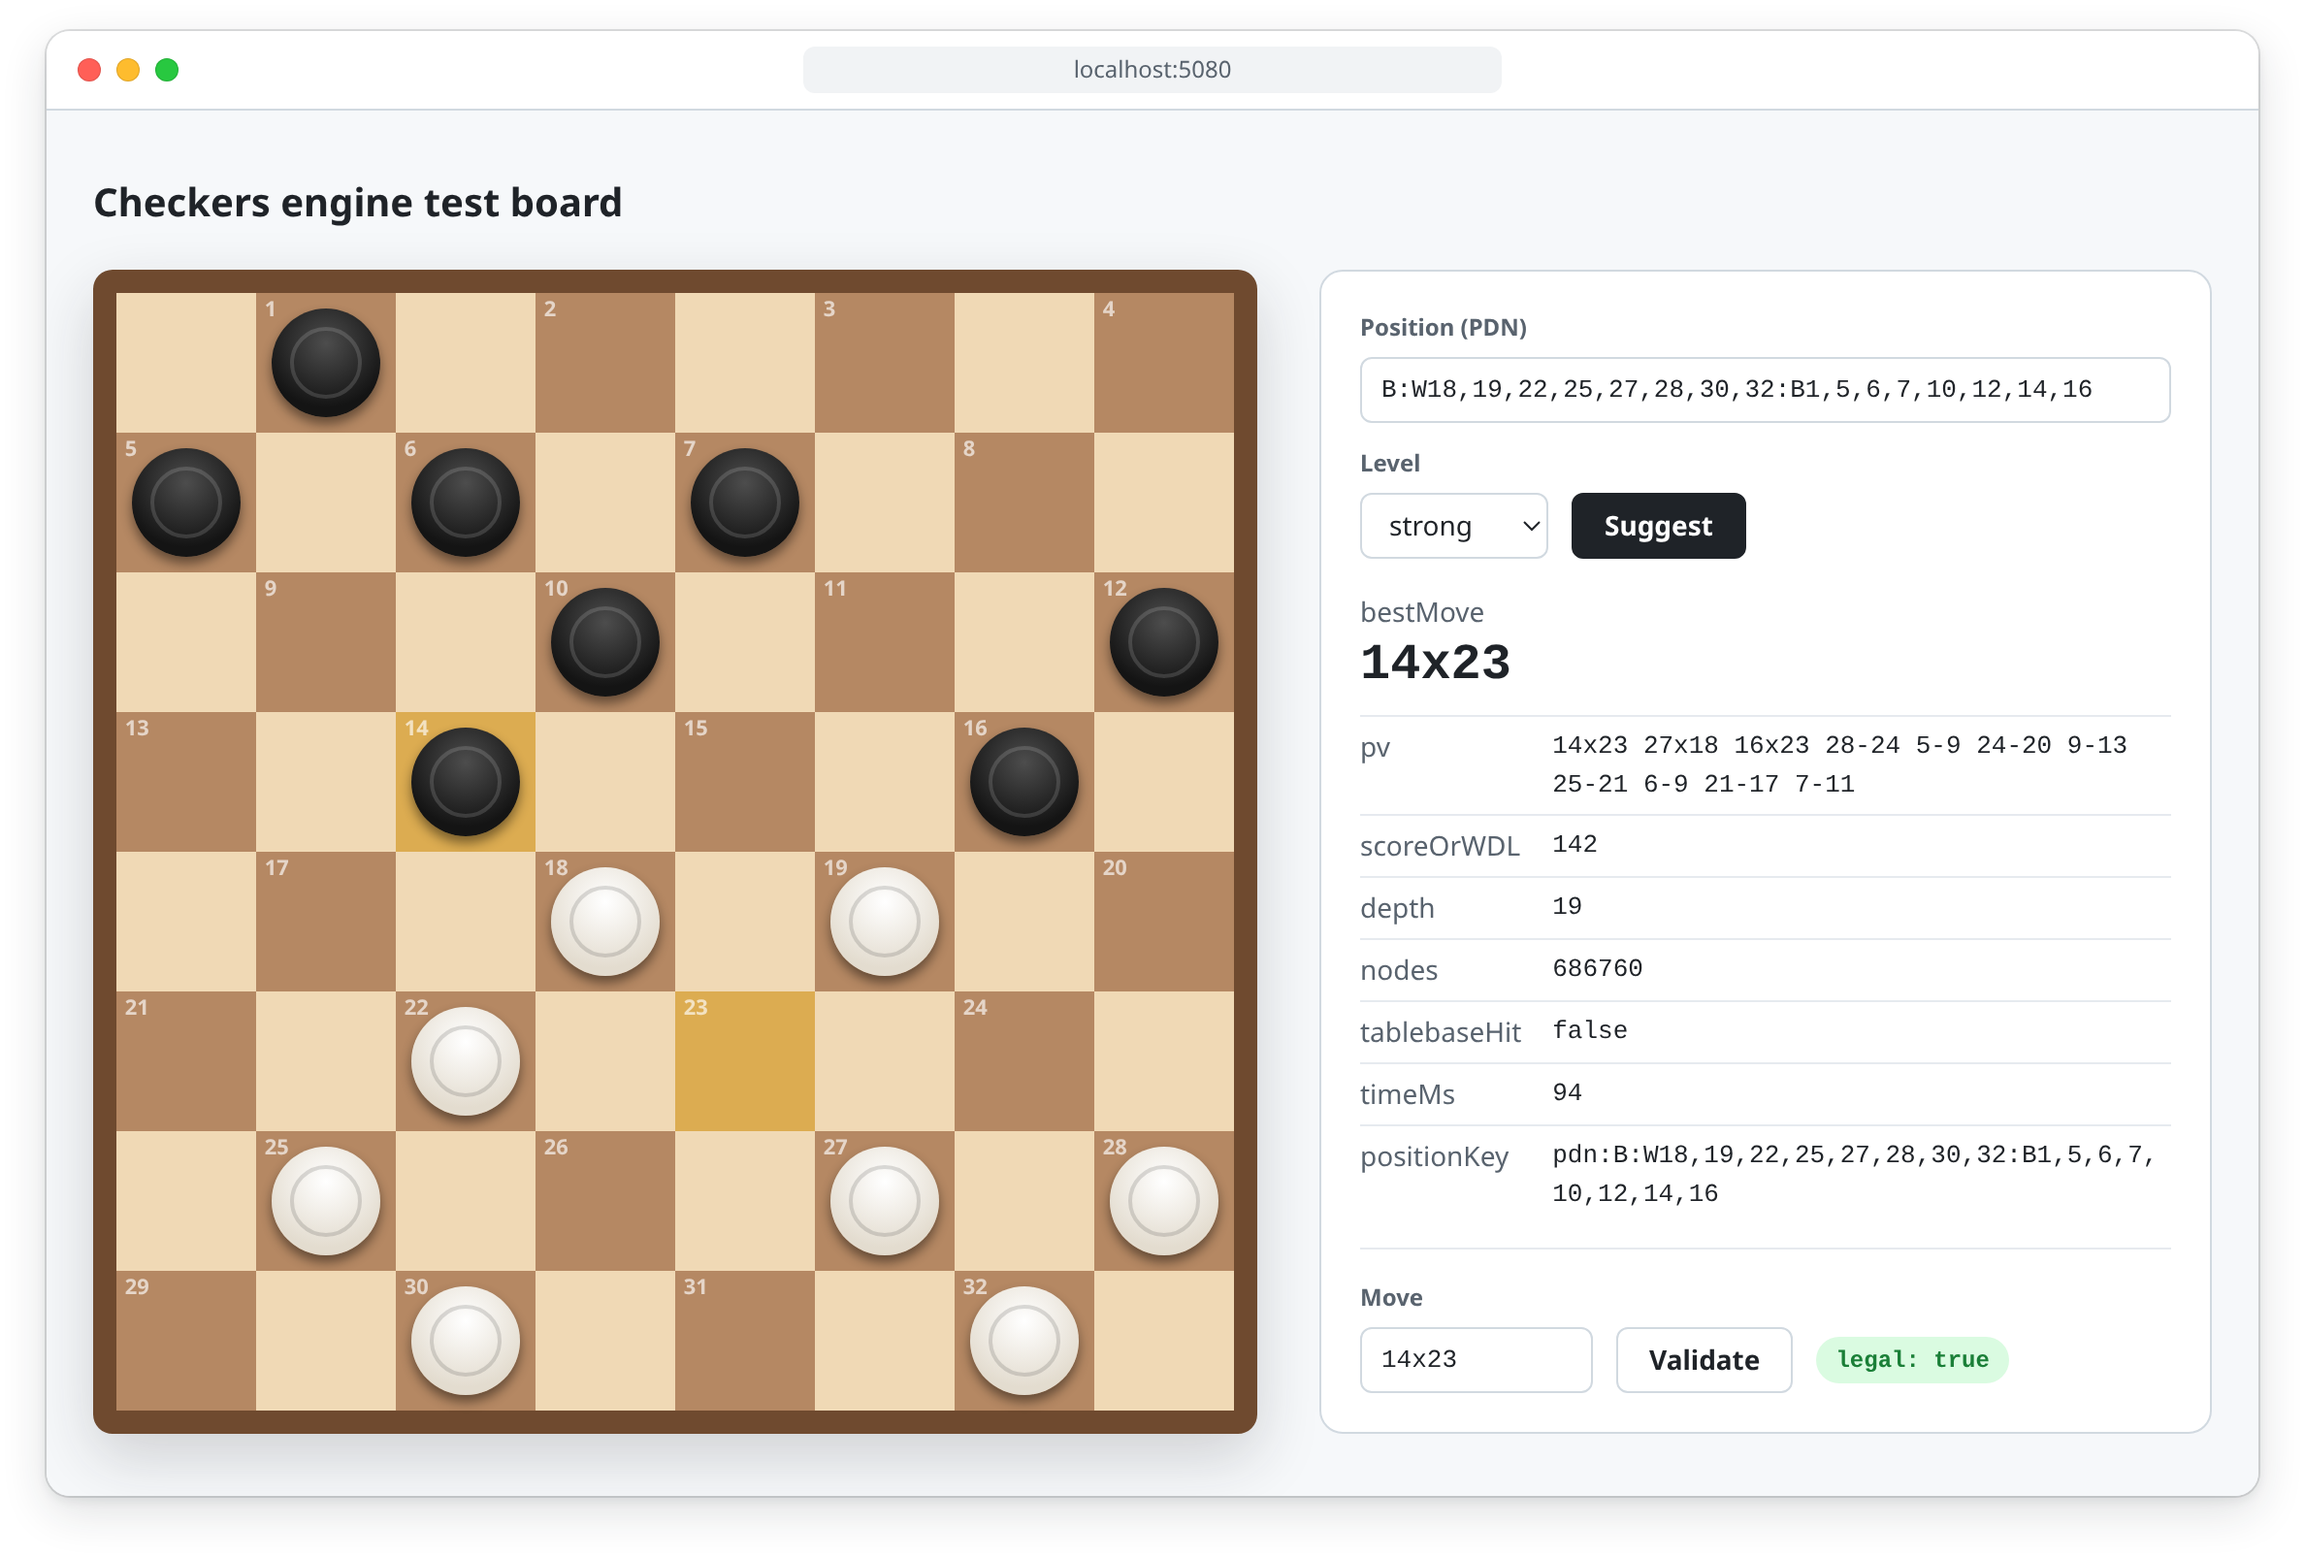
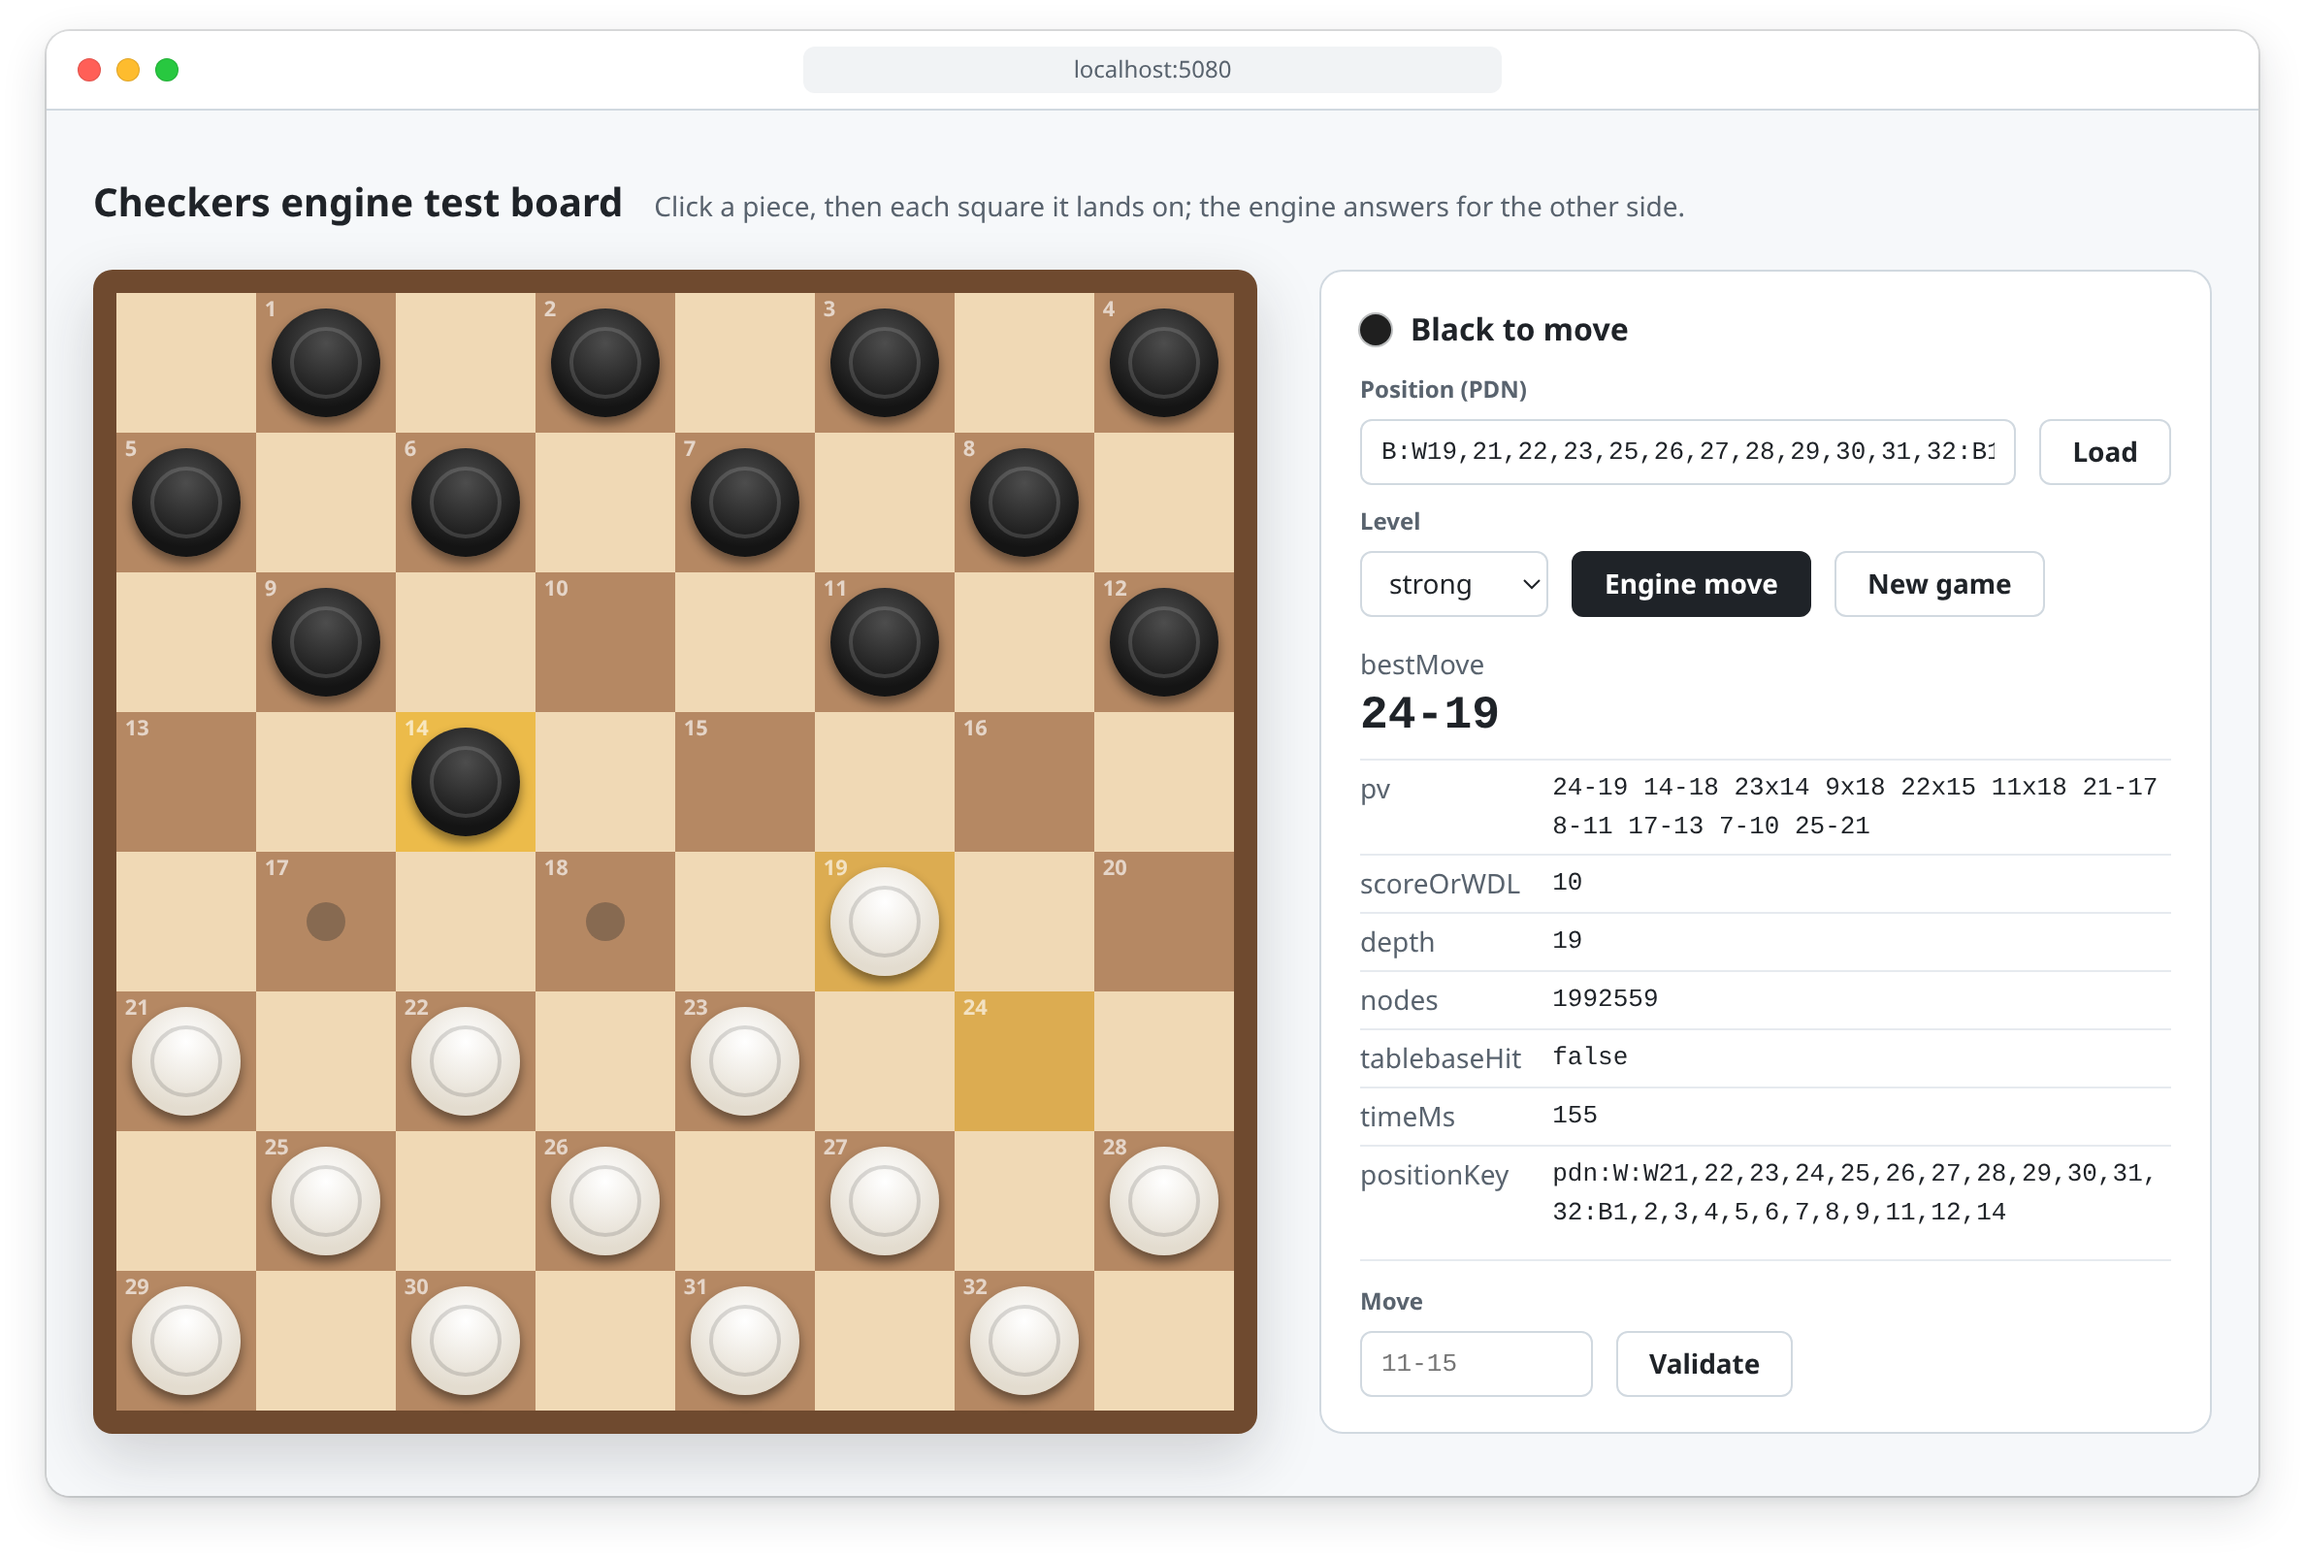
docs: describe the playable test board

diff --git a/README.md b/README.md
@@ -13,9 +13,9 @@
 
 [Quick start](#quick-start) · [API](#api) · [How it works](#how-it-works) · [Deploying to IIS](#deploying-to-iis) · [Design decisions](#design-decisions)
 
-<img src="docs/board.png" width="820" alt="Test board: the engine suggests 14x23 on the sample position, and the move validates as legal">
+<img src="docs/board.png" width="820" alt="Test board: a game against the engine, which answered 10-14 with 24-19; the selected piece on 14 shows its landing squares">
 
-<sub>Test board (<code>GET /</code>) on the specification's sample position</sub>
+<sub>Test board (<code>GET /</code>): a game against the engine</sub>
 
 </div>
 
@@ -63,7 +63,7 @@ export Engine__Databases="Z:$(pwd | tr / '\\')\\.engine-cache\\chinook-db"
 dotnet run --project src/Checkers.Api
 ```
 
-Open http://localhost:5080 for the test board, or call the API:
+Open http://localhost:5080 to play against the engine on the test board, or call the API:
 
 ```bash
 curl -s http://localhost:5080/v1/move/suggest -H 'Content-Type: application/json' -d '{
@@ -166,6 +166,27 @@ Errors are RFC 7807 problem details.
 Returns `{ "legal": true }` or `{ "legal": false }`. Captures can be short (`6x24`) or full (`6x15x24`).
 A malformed position or move gets `422`.
 
+### `POST /v1/move/legal`
+
+Not in the specification: it lets the test board play games without checkers rules of its own.
+
+```json
+{ "position": "B:W18,19,22,25,27,28,30,32:B1,5,6,7,10,12,14,16" }
+```
+
+```json
+{
+  "position": "B:W18,19,22,25,27,28,30,32:B1,5,6,7,10,12,14,16",
+  "moves": [
+    { "move": "14x23", "position": "W:W19,22,25,27,28,30,32:B1,5,6,7,10,12,16,23" },
+    { "move": "16x23", "position": "W:W18,22,25,27,28,30,32:B1,5,6,7,10,12,14,23" }
+  ]
+}
+```
+
+Returns the canonical position and every legal move with the position it leads to. Empty `moves` means the side
+to move has lost. A malformed position gets `422`.
+
 ### `GET /healthz`
 
 Returns `{ "ok": true, "workers": 2 }`: `ok` is `false` until every configured worker is ready, and `workers` counts the
@@ -173,8 +194,10 @@ ready ones. Always `200`.
 
 ### `GET /`
 
-The test board: draws the returned position, highlights the suggested move and validates a typed move. It calls only
-the endpoints above and has no checkers rules of its own.
+The test board: a game against the engine. Click a piece and each square it lands on; the engine answers through
+`/v1/move/suggest`, and the panel shows its search. **Engine move** makes the engine play the side to move (to play
+White, or to continue), **Load** starts from any PDN position, and **Validate** checks a typed move. The page has no
+checkers rules of its own: it plays the moves that `/v1/move/legal` lists.
 
 ## How it works
 
@@ -246,7 +269,7 @@ dotnet test --solution CheckersEngineApi.slnx
 | Project | Covers |
 |---|---|
 | `Checkers.Domain.Tests` | PDN parsing and validation, canonical form, move generation (mandatory captures, multi-jumps, crowning), notation |
-| `Checkers.Application.Tests` | Suggest flow with a fake engine, database path, levels and limits, cache expiry and eviction, validation |
+| `Checkers.Application.Tests` | Suggest flow with a fake engine, database path, levels and limits, cache expiry and eviction, validation, legal moves |
 | `Checkers.Engine.Tests` | Worker pool (round robin, locks, restarts, timeouts), protocol, host board and status-line conversions |
 | `Checkers.Api.Tests` | HTTP contract: JSON shapes, `400` / `422` / `504`, health, request log, test board |
 
@@ -292,6 +315,8 @@ Two end-to-end tests run the real KingsRow host when `CHECKERS_KINGSROW_HOST`, `
 - **`strong` uses 500 ms**, the low end of 500–600 ms, to stay under the 600 ms acceptance limit.
 - **No randomness**: opening book off, one search thread per worker. The cache keeps answers stable for its TTL.
 - **Cache key** = canonical PDN + effective limits. Only successful answers are cached.
+- **The test board plays through the API**: `POST /v1/move/legal`, the one endpoint beyond the specification, lists
+  each legal move with its resulting position, so checkers rules stay in the Domain only.
 - **The specification's sample response is not a valid answer** (`22-18x11-7` is a White move in a Black-to-move
   position). Only its shape is kept.
 - **"Try the next PV move"**: the first legal move among the best move and the PV is played, otherwise `500`. `pv` is
